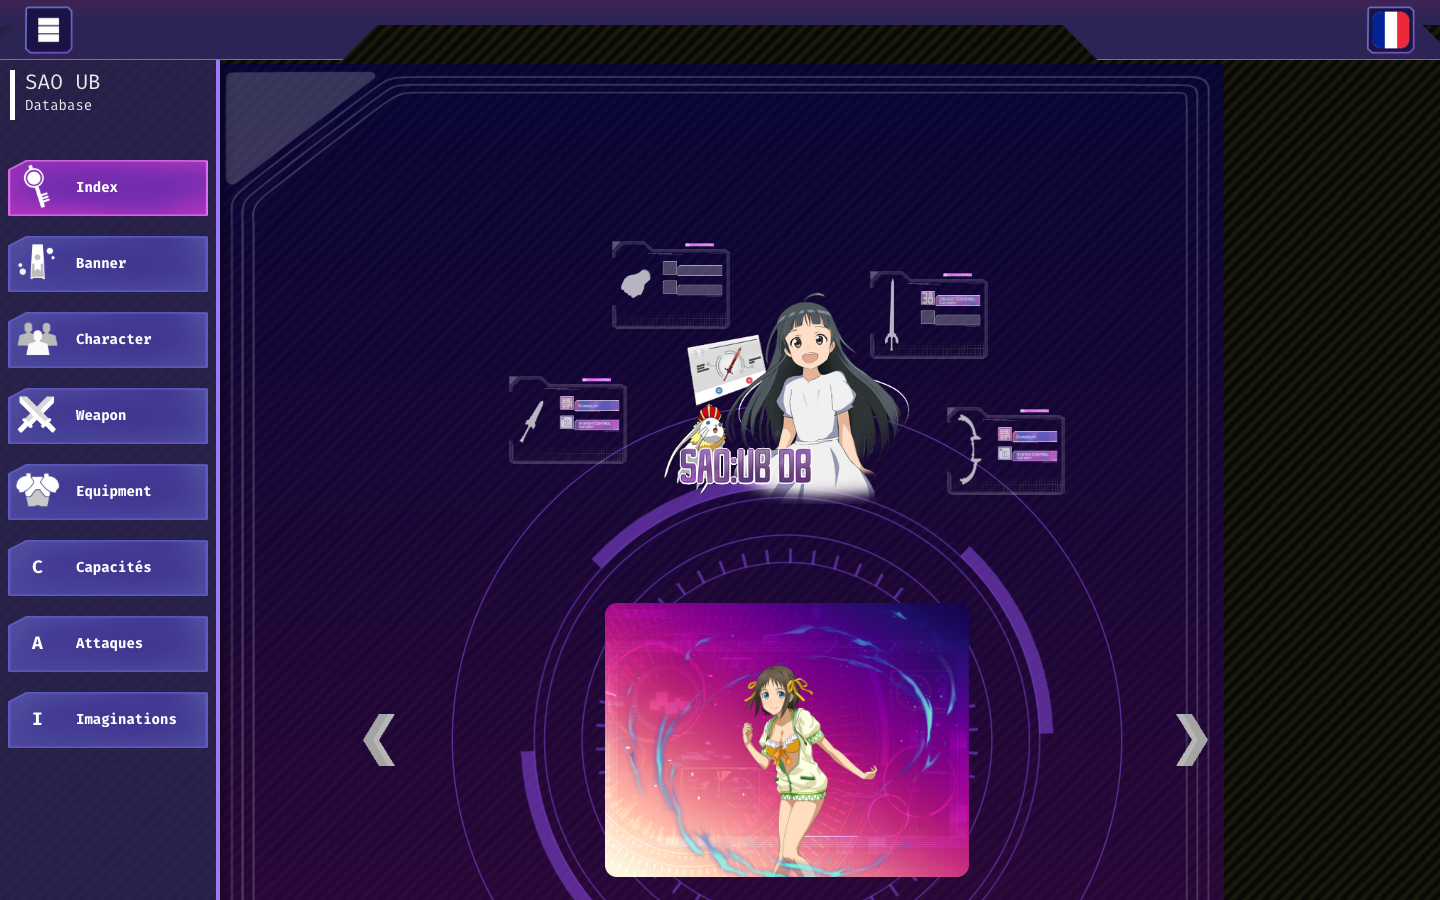
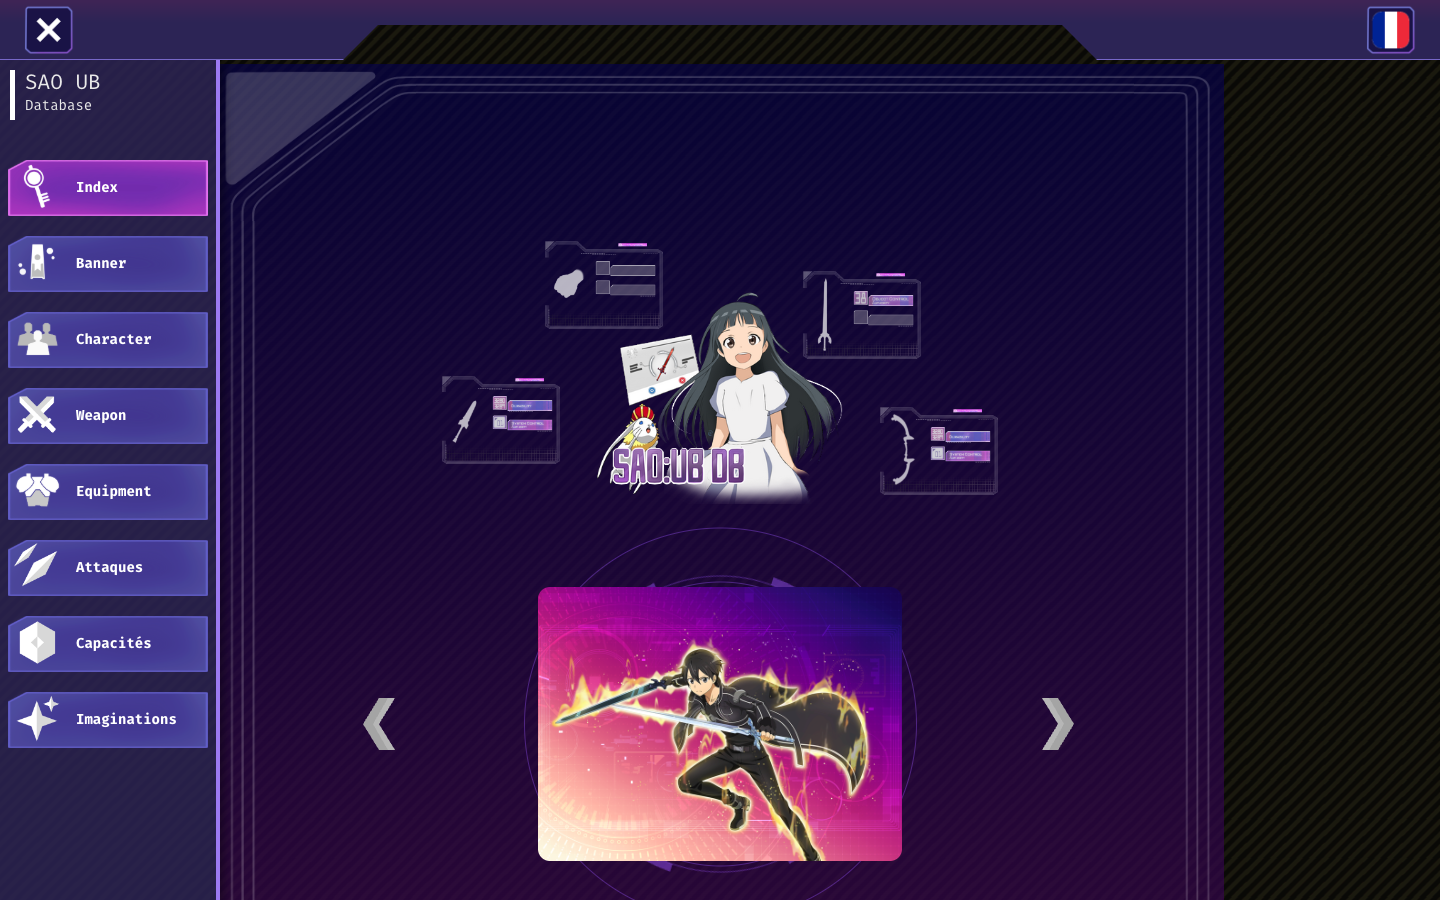
(update) update img readme

diff --git a/README.md b/README.md
@@ -10,9 +10,9 @@ et les données viennent de l'[API SAOARS](https://github.com/Renaudfradin/API-S
 | --- | --- |
 | <img src="docs/screenshots/home.png" alt="Accueil" width="100%"> | <img src="docs/screenshots/characters.png" alt="Liste des personnages" width="100%"> |
 
-| Fiche personnage | Armes |
+| Bannières | Armes |
 | --- | --- |
-| <img src="docs/screenshots/character.png" alt="Fiche d'un personnage" width="100%"> | <img src="docs/screenshots/weapons.png" alt="Liste des armes" width="100%"> |
+| <img src="docs/screenshots/banners.png" alt="Liste des bannières" width="100%"> | <img src="docs/screenshots/weapons.png" alt="Liste des armes" width="100%"> |
 
 | Équipements | Galerie |
 | --- | --- |
